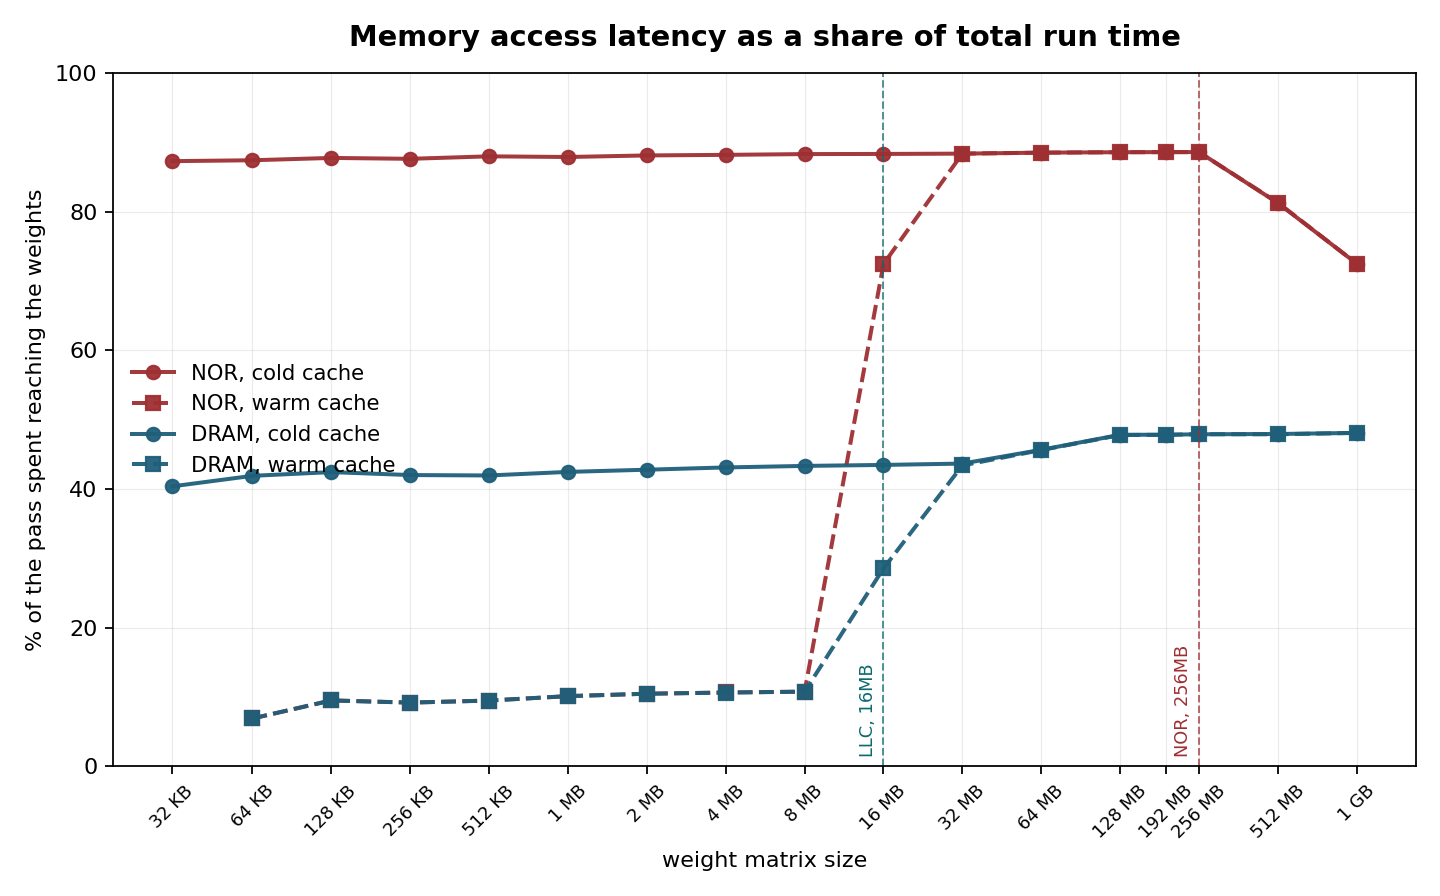
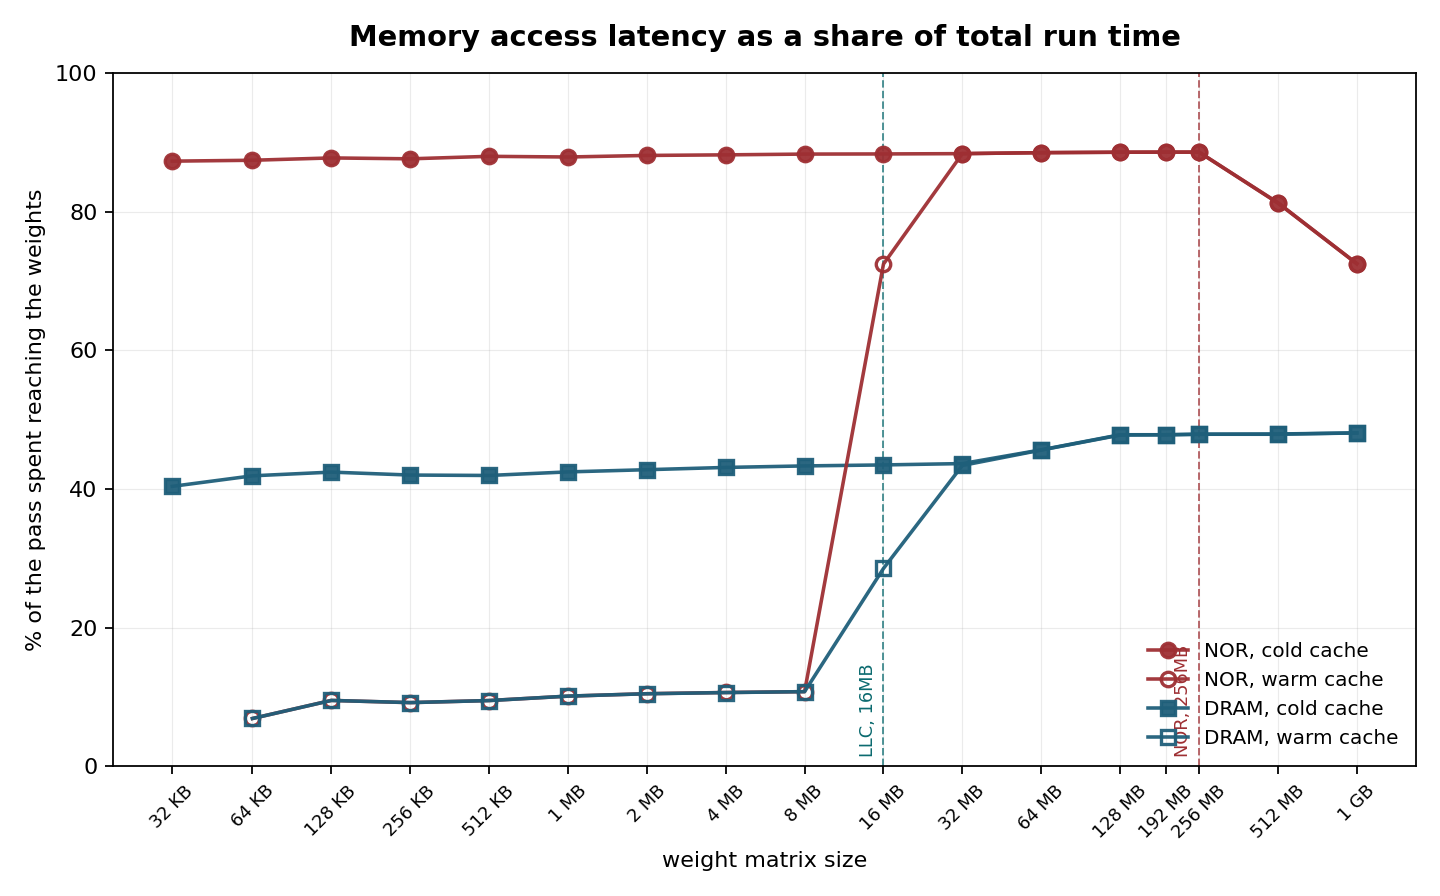
fig3: shape is the medium, fill is the cache state
Circles for NOR, squares for DRAM, so the shape says which device. Filled for
cold and hollow for warm, so the cache state is the fill. Every line solid --
with colour, shape and fill all carrying meaning, a dash pattern adds nothing.

The hollow-over-filled pairing also solves what a third shape could not:
above the LLC the cold and warm curves coincide, which IS the finding, and
two filled markers of the same shape just hide one another. A ring around a
dot shows both are present.

Legend moves from centre left, where it sat on the DRAM cold curve, to lower
right, where the converged curves leave the area empty.

diff --git a/scripts/plot_sweep.py b/scripts/plot_sweep.py
@@ -129,19 +129,30 @@ fig.tight_layout(); fig.savefig(f"{a.dir}/fig2-slowdown.png", dpi=160)
 
 # --------------------------------------------------------------- 3. share ---
 fig, ax = plt.subplots(figsize=(9, 5.6))
-for mode, lab, c, ls in [("nor_cold",  "NOR, cold cache",  C_NOR,  "o-"),
-                         ("nor_warm",  "NOR, warm cache",  C_NOR,  "s--"),
-                         ("dram_cold", "DRAM, cold cache", C_DRAM, "o-"),
-                         ("dram_warm", "DRAM, warm cache", C_DRAM, "s--")]:
+# SHAPE is the medium, FILL is the cache state, and every line is solid.
+#
+# Cold and warm coincide above the LLC -- that is the point of the figure --
+# and two filled markers of the same shape simply hide one another. A hollow
+# marker over a filled one shows both are there, which a third shape or a
+# dashed line cannot do.
+for mode, lab, c, mk, filled in [("nor_cold",  "NOR, cold cache",  C_NOR,  "o", True),
+                                 ("nor_warm",  "NOR, warm cache",  C_NOR,  "o", False),
+                                 ("dram_cold", "DRAM, cold cache", C_DRAM, "s", True),
+                                 ("dram_warm", "DRAM, warm cache", C_DRAM, "s", False)]:
     t = col(mode)
     ax.plot(sizes, [100 * (x - k) / x if x and x > k else float("nan")
-                    for x, k in zip(t, comp)], ls, color=c, lw=1.8, label=lab, alpha=0.95)
+                    for x, k in zip(t, comp)],
+            marker=mk, ls="-", color=c, lw=1.6, ms=6.5,
+            mfc=(c if filled else "none"), mec=c, mew=1.5,
+            label=lab, alpha=0.95, zorder=(3 if filled else 4))
 ax.set_ylim(0, 100)
 frame(ax, "Memory access latency as a share of total run time", "% of the pass spent reaching the weights",
       "Measured as (total minus compute) over total, with the compute floor held L1-resident "
       "at every size.\nOn DRAM it is roughly half the pass, which is why a medium ~9x slower "
       "per access costs only ~4.6x end to end.")
-ax.legend(fontsize=9.5, loc="center left", frameon=False)
+# Lower right: the warm and cold curves have converged by then, so nothing
+# else is down there. Centre left sat on top of the DRAM cold curve.
+ax.legend(fontsize=9, loc="lower right", frameon=False)
 fig.tight_layout(); fig.savefig(f"{a.dir}/fig3-memory-share.png", dpi=160)
 
 print(f"wrote {a.dir}/fig1, fig1b, fig2, fig3")
